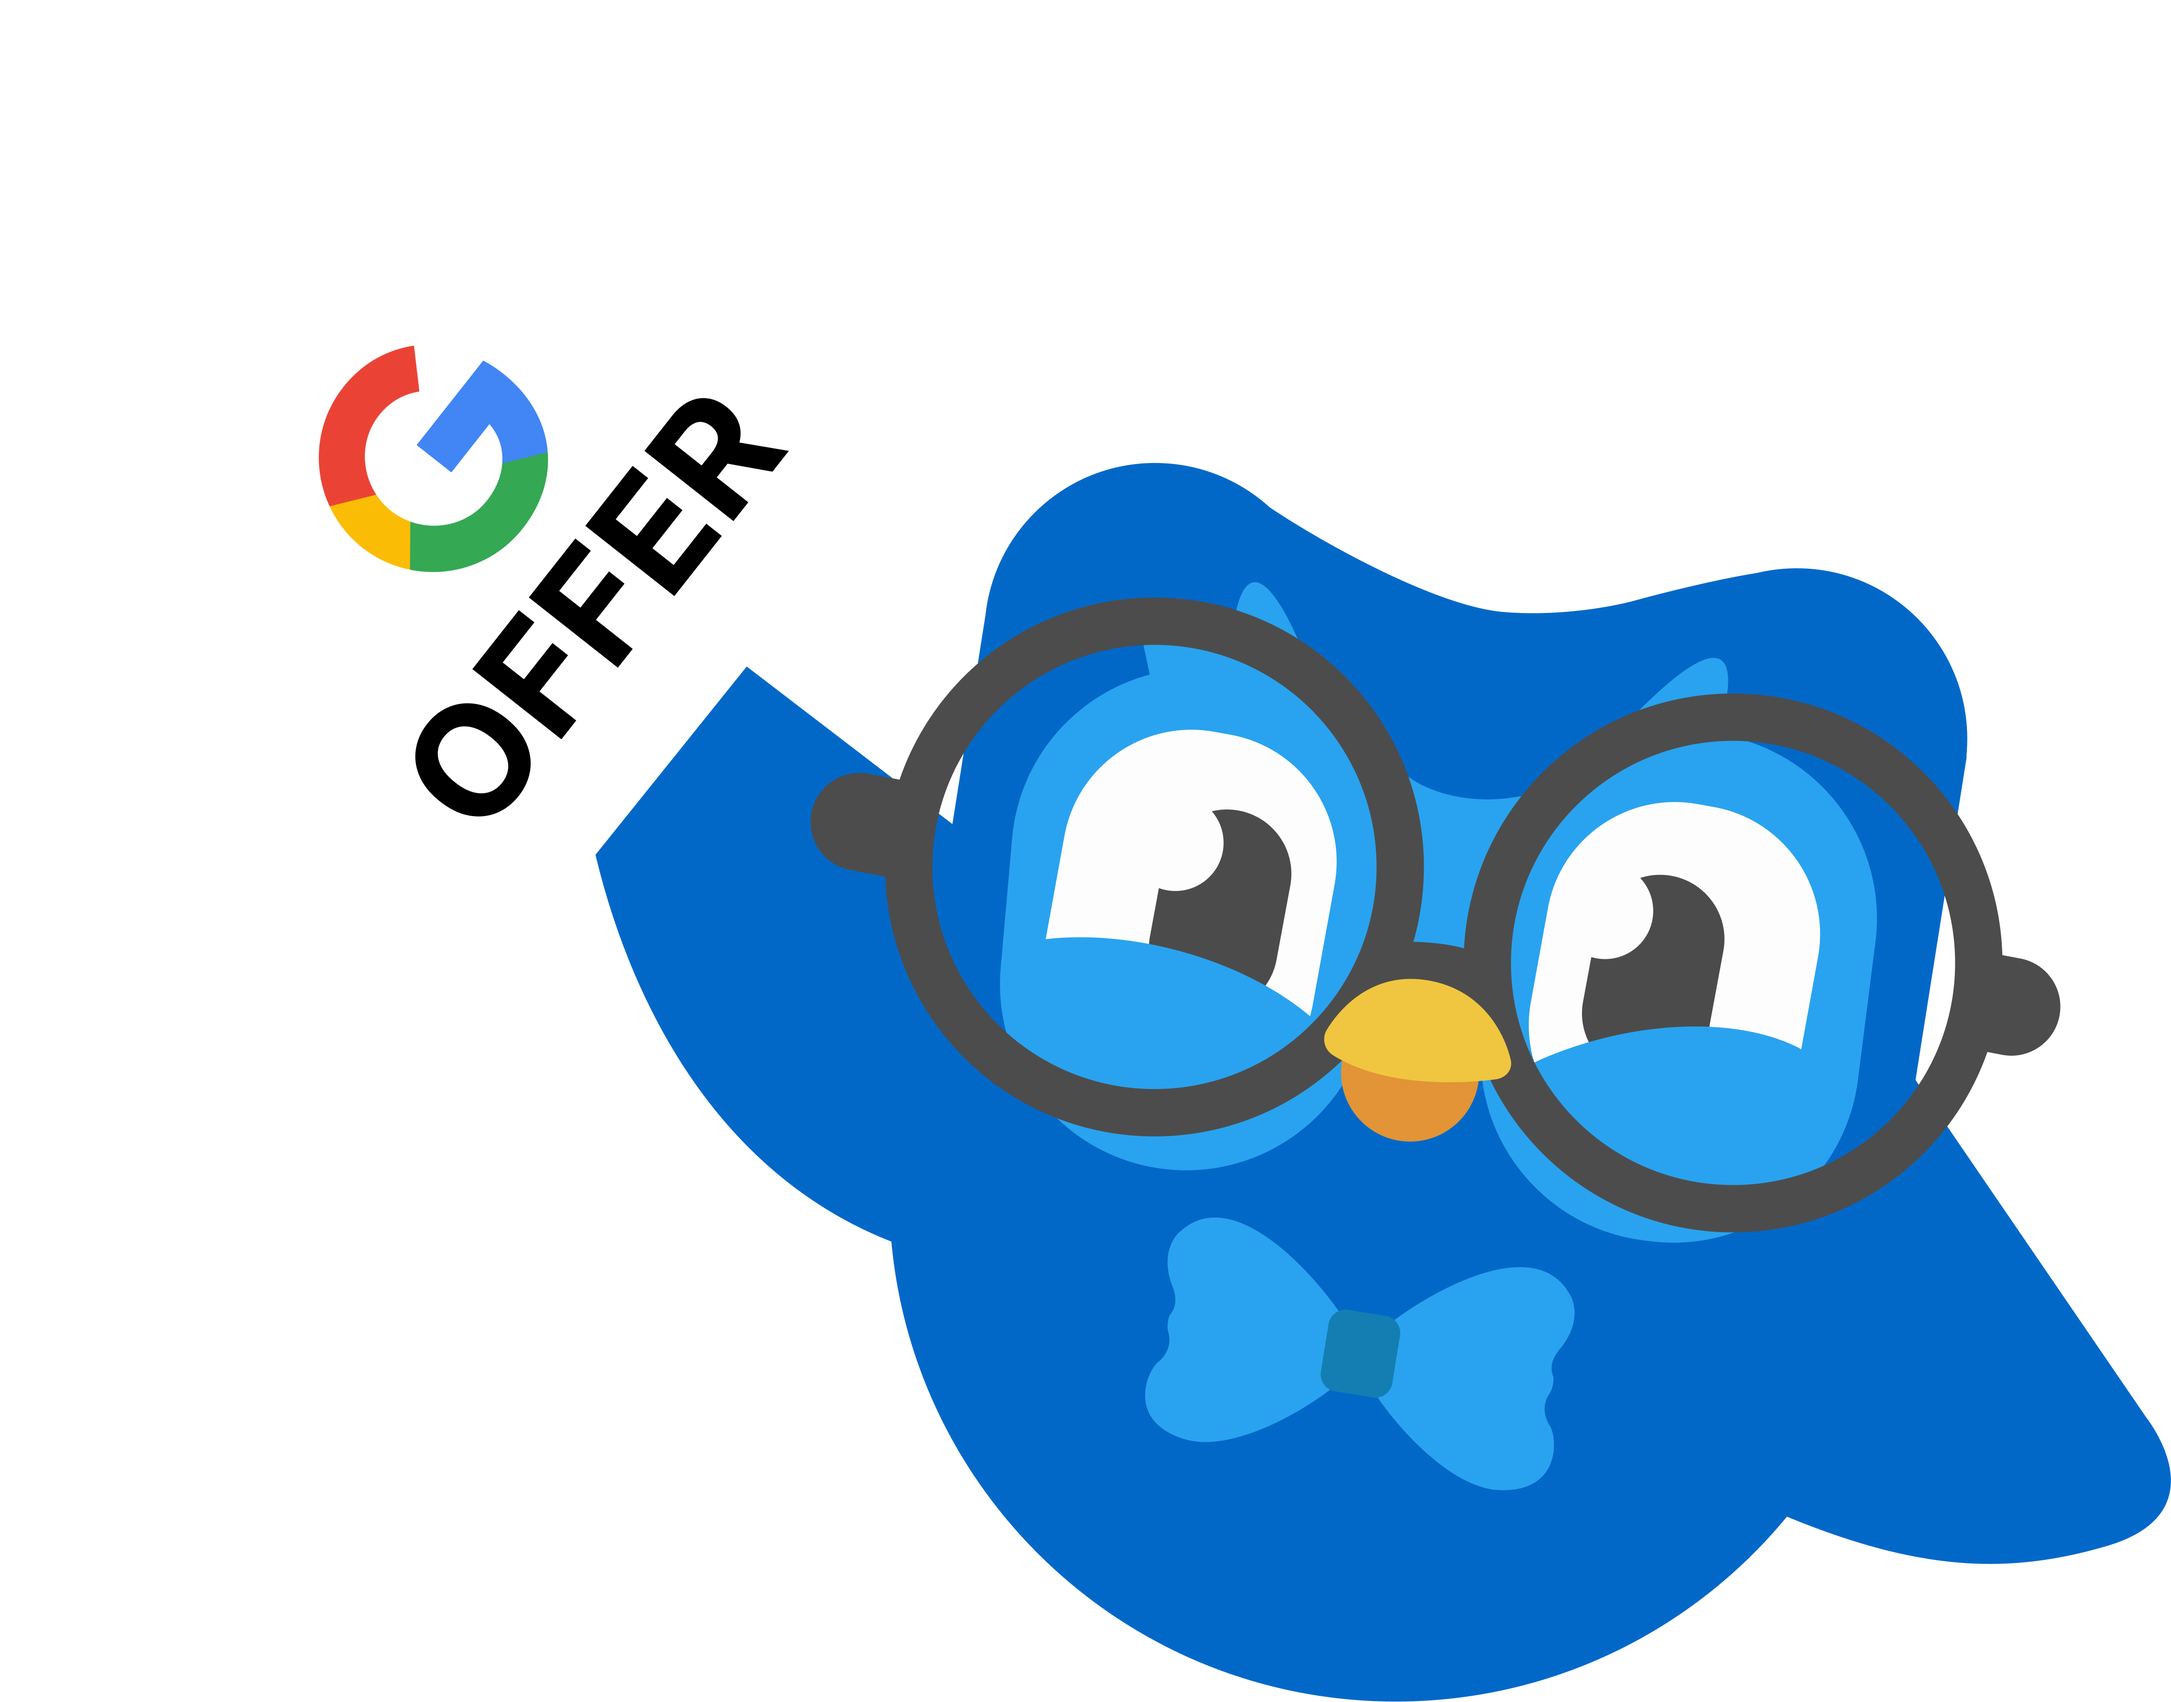
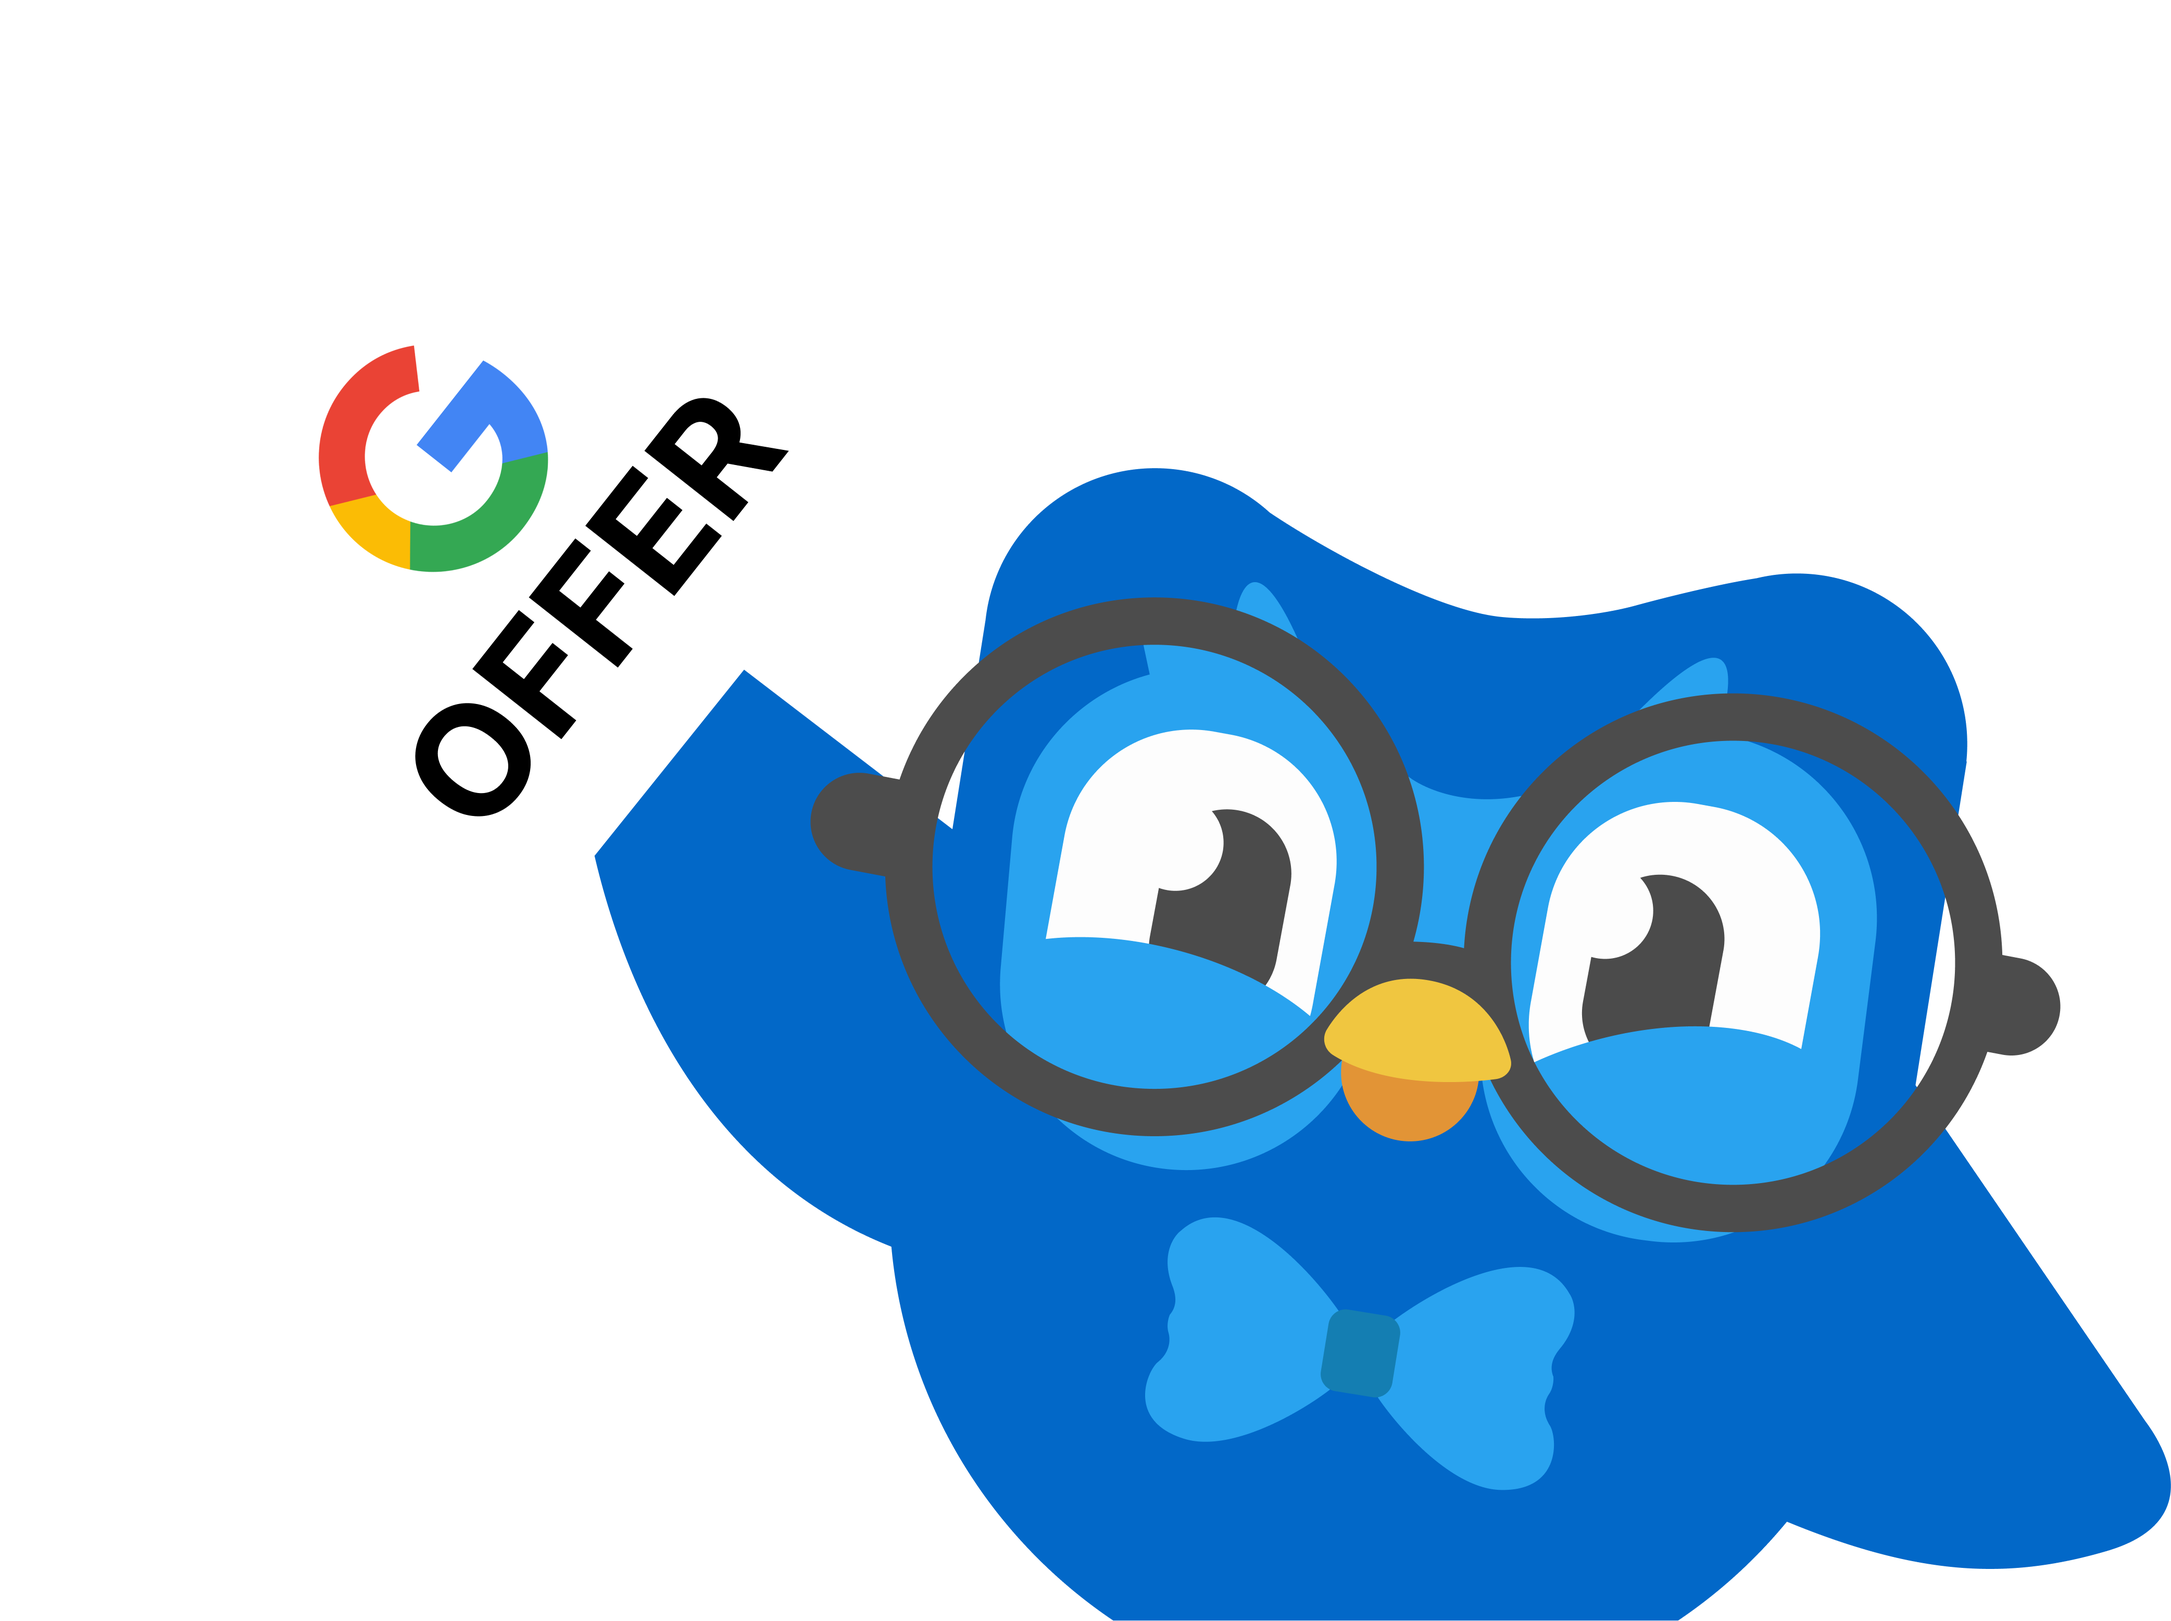
Added sections for homepage, fixed linking in other pages

Changed region(s): [[0.1247, 0.187, 1.0, 1.0]]

diff --git a/src/css/output.css b/src/css/output.css
@@ -558,12 +558,24 @@ video {
   border-radius: 0.75rem;
 }
 
+.absolute {
+  position: absolute;
+}
+
 .relative {
   position: relative;
 }
 
+.bottom-\[0\] {
+  bottom: 0;
+}
+
 .left-\[5rem\] {
   left: 5rem;
+}
+
+.right-0 {
+  right: 0px;
 }
 
 .top-\[-2rem\] {
@@ -572,10 +584,6 @@ video {
 
 .row-span-2 {
   grid-row: span 2 / span 2;
-}
-
-.float-right {
-  float: right;
 }
 
 .mx-\[10rem\] {
@@ -609,8 +617,8 @@ video {
   margin-top: 5rem;
 }
 
-.mr-auto {
-  margin-right: auto;
+.block {
+  display: block;
 }
 
 .flex {
@@ -621,12 +629,24 @@ video {
   display: grid;
 }
 
+.h-\[10rem\] {
+  height: 10rem;
+}
+
+.h-\[12rem\] {
+  height: 12rem;
+}
+
 .h-\[20rem\] {
   height: 20rem;
 }
 
 .h-\[3rem\] {
   height: 3rem;
+}
+
+.h-\[7rem\] {
+  height: 7rem;
 }
 
 .w-\[10rem\] {
@@ -639,10 +659,6 @@ video {
 
 .grid-cols-2 {
   grid-template-columns: repeat(2, minmax(0, 1fr));
-}
-
-.grid-cols-\[5rem_1fr\] {
-  grid-template-columns: 5rem 1fr;
 }
 
 .grid-rows-2 {
@@ -670,17 +686,12 @@ video {
   border-radius: 50%;
 }
 
-.border-\[0\.2rem\] {
-  border-width: 0.2rem;
+.rounded-xl {
+  border-radius: 0.75rem;
 }
 
 .border-\[0\] {
   border-width: 0;
-}
-
-.border-\[\#FFFFFF\] {
-  --tw-border-opacity: 1;
-  border-color: rgb(255 255 255 / var(--tw-border-opacity, 1));
 }
 
 .bg-\[\#88C7E8\] {
@@ -724,11 +735,6 @@ video {
   --tw-gradient-stops: var(--tw-gradient-from), #424893 var(--tw-gradient-via-position), var(--tw-gradient-to);
 }
 
-.via-\[\#C3E1FA\] {
-  --tw-gradient-to: rgb(195 225 250 / 0)  var(--tw-gradient-to-position);
-  --tw-gradient-stops: var(--tw-gradient-from), #C3E1FA var(--tw-gradient-via-position), var(--tw-gradient-to);
-}
-
 .via-\[\#FFB063\] {
   --tw-gradient-to: rgb(255 176 99 / 0)  var(--tw-gradient-to-position);
   --tw-gradient-stops: var(--tw-gradient-from), #FFB063 var(--tw-gradient-via-position), var(--tw-gradient-to);
@@ -763,12 +769,17 @@ video {
   padding-top: 5rem;
 }
 
-.pl-\[4rem\] {
-  padding-left: 4rem;
-}
-
 .text-center {
   text-align: center;
+}
+
+.text-right {
+  text-align: right;
+}
+
+.text-\[1\.25rem\]\/\[1\.25rem\] {
+  font-size: 1.25rem;
+  line-height: 1.25rem;
 }
 
 .text-\[2\.25rem\] {
@@ -783,20 +794,17 @@ video {
   font-size: 2rem;
 }
 
-.text-\[3rem\] {
-  font-size: 3rem;
-}
-
-.text-\[1rem\] {
-  font-size: 1rem;
-}
-
 .font-bold {
   font-weight: 700;
 }
 
 .font-semibold {
   font-weight: 600;
+}
+
+.text-\[\#CD7900\] {
+  --tw-text-opacity: 1;
+  color: rgb(205 121 0 / var(--tw-text-opacity, 1));
 }
 
 .text-\[\#EE9B00\] {
@@ -807,6 +815,20 @@ video {
 .text-\[\#FFFFFF\] {
   --tw-text-opacity: 1;
   color: rgb(255 255 255 / var(--tw-text-opacity, 1));
+}
+
+.transition {
+  transition-property: color, background-color, border-color, text-decoration-color, fill, stroke, opacity, box-shadow, transform, filter, -webkit-backdrop-filter;
+  transition-property: color, background-color, border-color, text-decoration-color, fill, stroke, opacity, box-shadow, transform, filter, backdrop-filter;
+  transition-property: color, background-color, border-color, text-decoration-color, fill, stroke, opacity, box-shadow, transform, filter, backdrop-filter, -webkit-backdrop-filter;
+  transition-timing-function: cubic-bezier(0.4, 0, 0.2, 1);
+  transition-duration: 150ms;
+}
+
+.transition-transform {
+  transition-property: transform;
+  transition-timing-function: cubic-bezier(0.4, 0, 0.2, 1);
+  transition-duration: 150ms;
 }
 
 /* Run this command to build tailwind
@@ -820,4 +842,15 @@ npx tailwindcss -i ./src/css/input.css -o ./src/css/output.css --watch
 
 *{
   font-family:'Inter','sans-serif';
+}
+
+.hover\:scale-\[105\%\]:hover {
+  --tw-scale-x: 105%;
+  --tw-scale-y: 105%;
+  transform: translate(var(--tw-translate-x), var(--tw-translate-y)) rotate(var(--tw-rotate)) skewX(var(--tw-skew-x)) skewY(var(--tw-skew-y)) scaleX(var(--tw-scale-x)) scaleY(var(--tw-scale-y));
+}
+
+.hover\:drop-shadow-lg:hover {
+  --tw-drop-shadow: drop-shadow(0 10px 8px rgb(0 0 0 / 0.04)) drop-shadow(0 4px 3px rgb(0 0 0 / 0.1));
+  filter: var(--tw-blur) var(--tw-brightness) var(--tw-contrast) var(--tw-grayscale) var(--tw-hue-rotate) var(--tw-invert) var(--tw-saturate) var(--tw-sepia) var(--tw-drop-shadow);
 }

diff --git a/src/Index.jsx b/src/Index.jsx
@@ -8,6 +8,9 @@ import logo from './assets/lockedin-logo.png';
 import pfp from './assets/placeholder-pfp.jpg';
 import wave from './assets/solo-wave-clouds.png';
 import clouds from './assets/clouds.png';
+import track_leetcode from './assets/solo-coding.png'
+import track_jobs from './assets/solo-google-offer.png';
+
 import LeetCodeStats from './LeetCodeStats.jsx';
 
 function Index() {
@@ -21,7 +24,7 @@ function Index() {
                             class="h-[3rem]" />
                     </Link>
 
-                    <Link to="login" class="button light-blue-bg ml-auto">
+                    <Link to="/login" class="button light-blue-bg ml-auto">
                         LOG IN
                     </Link>
                 </nav>
@@ -54,16 +57,25 @@ function Index() {
 
             <div class="white-strip"></div>
 
-            <main class="relative px-[10rem] bg-gradient-to-b from-[#FFFFFF] via-[#C3E1FA] to-[#86C3F5] from-50%">
-                <div class="grid grid-cols-2 p-[1.5rem] gap-x-[1.5rem] pt-[5rem]">
-                    <div class="grid gap-y-[1rem]">
-                        <section class="info home rounded-card">
-                            Lorem ipsum
-                        </section>
+            <main class="relative px-[10rem] bg-gradient-to-b from-[#FFFFFF] to-[#86C3F5]">
+                <div class="grid grid-cols-2 gap-x-[1.5rem] pt-[5rem]">
+                    <div class="grid grid-rows-2 gap-y-[1rem]">
+                        <Link to="/jobapp">
+                            <div class="relative info home rounded-card p-[1.5rem] h-[12rem] hover:scale-[105%] hover:drop-shadow-lg transition-transform">
+                                <p class="text-[#CD7900] font-bold text-[1.25rem]/[1.25rem] text-right"><span class="block">HAVE YOU APPLIED TO</span> <span class="block">ANY JOBS TODAY?</span></p>
+                                <img src={track_jobs} alt="Blue cartoon owl with round glasses holding a Google job offer" 
+                                    class="h-[10rem] absolute bottom-[0]"/>
+                            </div>
+                        </Link>
 
-                        <section class="info home rounded-card">
-                            Lorem ipsum
-                        </section>
+                        <Link to="/leetcode">
+                            <div class="relative info home rounded-card p-[1.5rem] h-[12rem]
+                            hover:scale-[105%] hover:drop-shadow-lg transition-transform">
+                                <p class="text-[#CD7900] font-bold text-[1.25rem]/[1.25rem]"><span class="block">HAVE YOU PRACTICED</span> <span class="block">YOUR LEETCODE TODAY?</span></p>
+                                <img src={track_leetcode} alt="Blue cartoon owl with round glasses typing on a computer"
+                                    class="h-[7rem] absolute right-0 bottom-[0] rounded-xl" />
+                            </div>
+                        </Link>
                     </div>
 
                     <section class="bg-[#FFD737] row-span-2 p-[1.5rem] rounded-card">

diff --git a/src/LeetCode.jsx b/src/LeetCode.jsx
@@ -17,12 +17,12 @@ function LeetCode() {
         <>
             <header class="mx-[10rem] mt-[1rem]">
                 <nav class="flex ">
-                    <Link to="login">
+                    <Link to="/">
                         <img src={logo} alt="Home"
                             class="h-[3rem]" />
                     </Link>
 
-                    <Link to="/" class="button light-blue-bg ml-auto">
+                    <Link to="/login" class="button light-blue-bg ml-auto">
                         LOG IN
                     </Link>
                 </nav>

diff --git a/src/JobApp.jsx b/src/JobApp.jsx
@@ -15,12 +15,12 @@ function JobApp(){
         <>
             <header class="mx-[10rem] mt-[1rem]">
                 <nav class="flex ">
-                    <Link to="login">
+                    <Link to="/">
                         <img src={logo} alt="Home"
                             class="h-[3rem]" />
                     </Link>
 
-                    <Link to="/" class="button light-blue-bg ml-auto">
+                    <Link to="/login" class="button light-blue-bg ml-auto">
                         LOG IN
                     </Link>
                 </nav>
